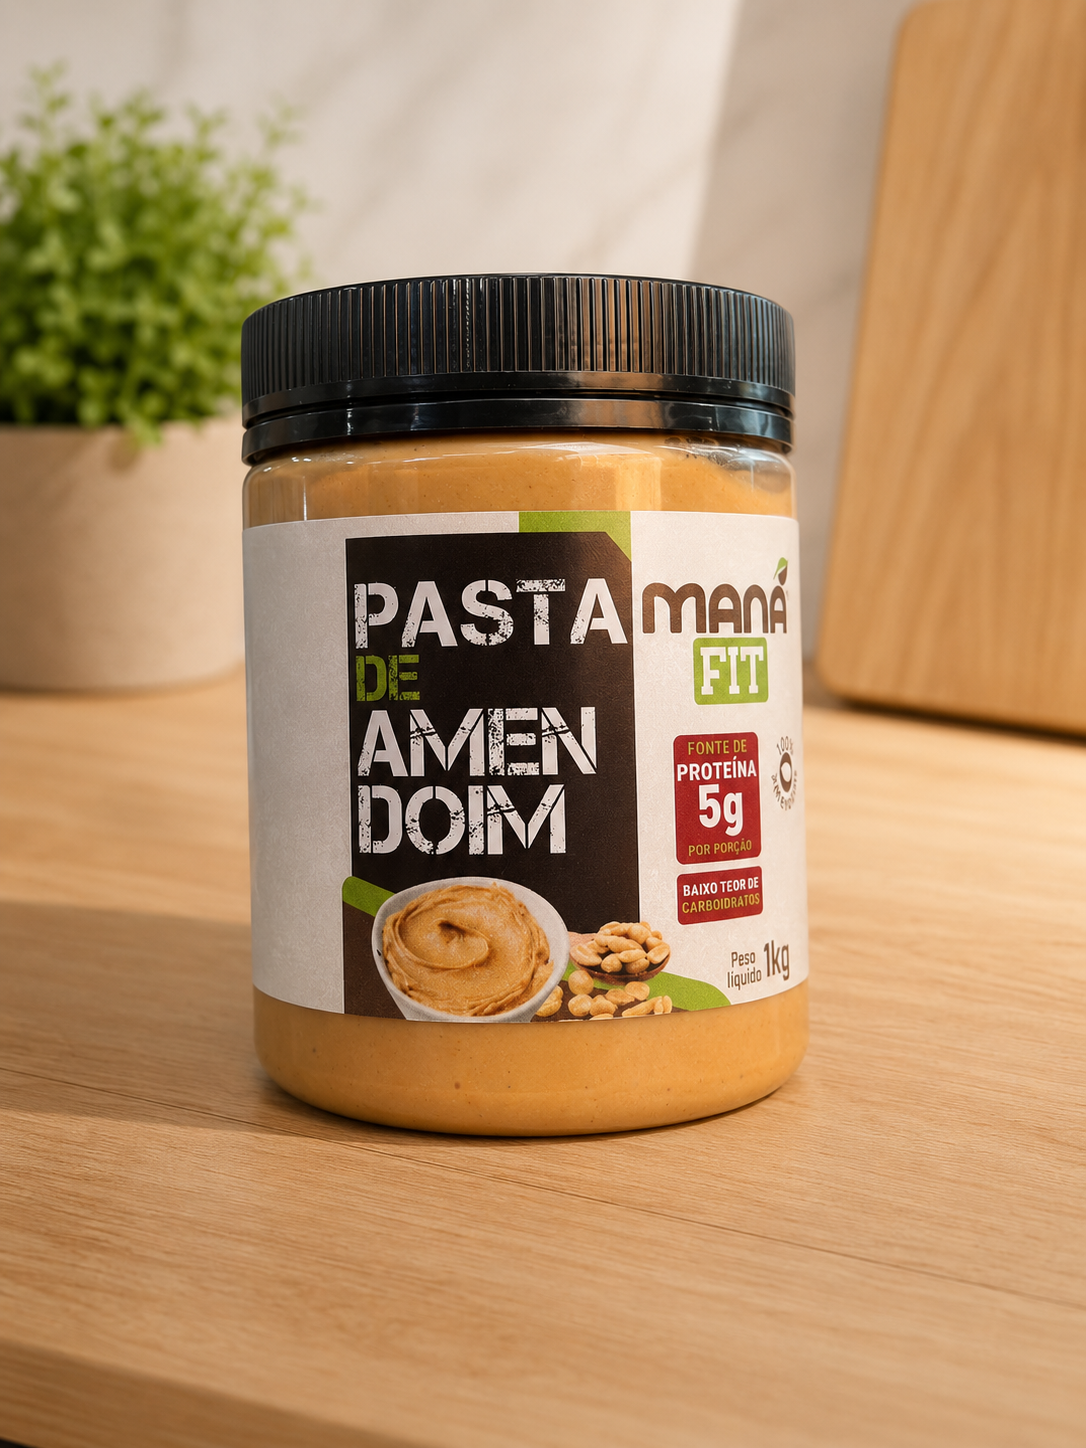
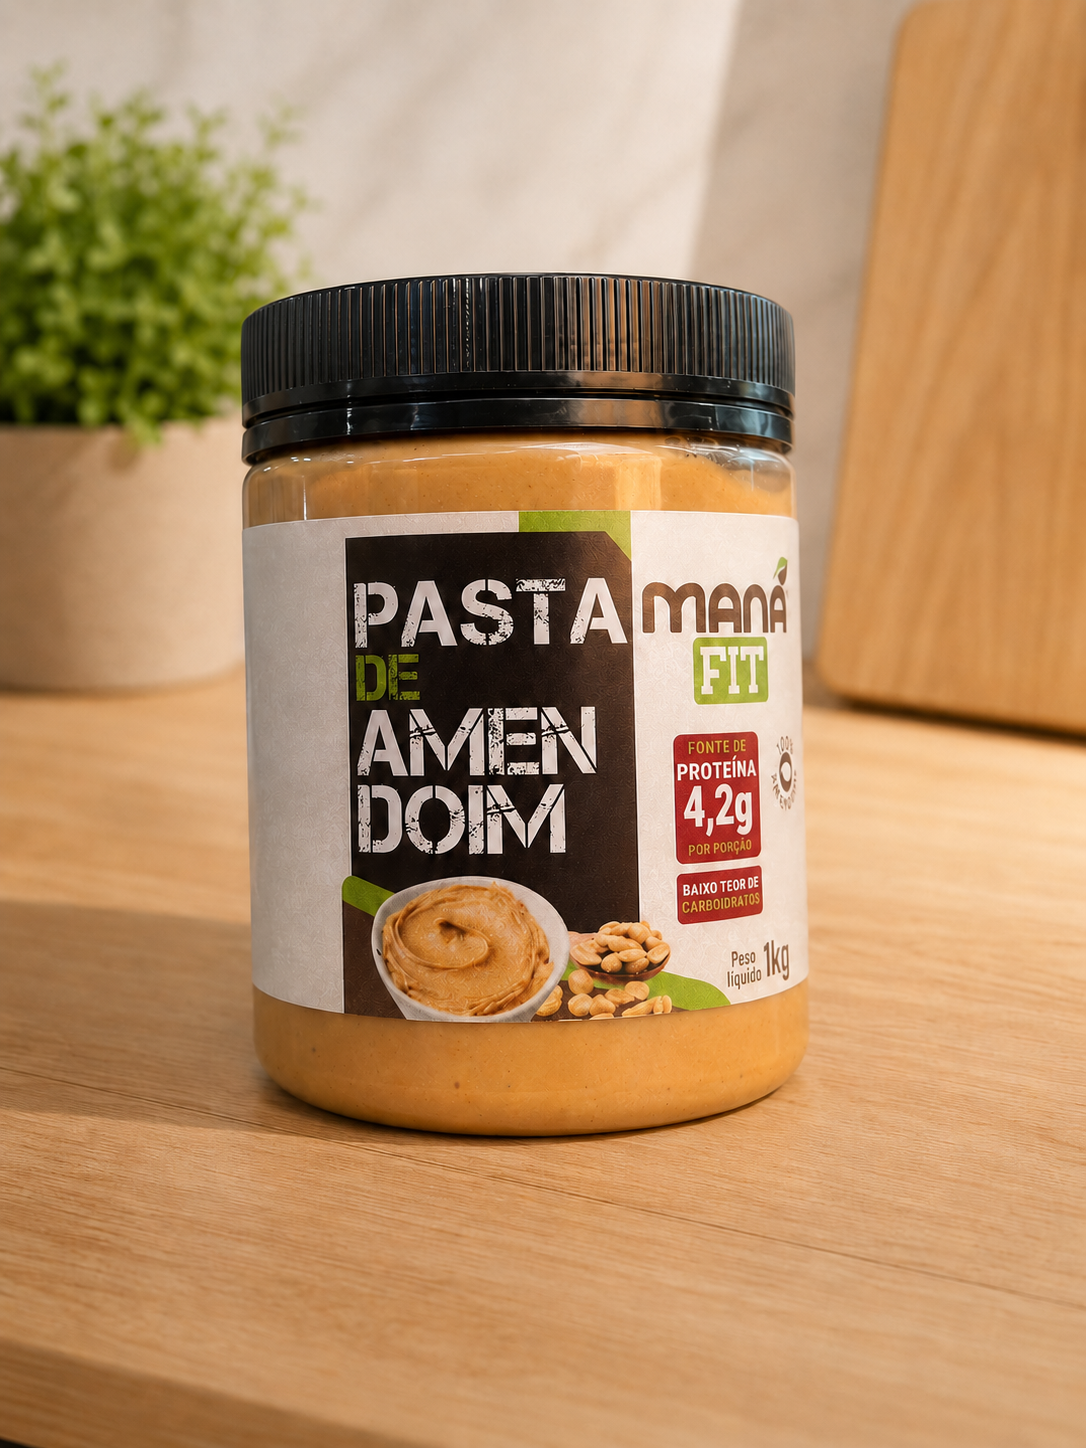
feat: add new image card component

diff --git a/js/script.js b/js/script.js
@@ -318,8 +318,19 @@ const products = [
     category: "linha-fit",
     badge: "fitnes",
     weight: "1kg",
-    price: 15,
+    price: 22.5,
     image: "/assets/img/linhafit/pasta-amendoim.png",
+    description:
+      "Pasta de amendoim cremosa, produzida com amendoins selecionados e sabor marcante.",
+  },
+  {
+    id: 29,
+    name: "Pasta de Amendoim",
+    category: "linha-fit",
+    badge: "fitnes",
+    weight: "500g",
+    price: 15,
+    image: "/assets/img/linhafit/pasta-amendoim500.png",
     description:
       "Pasta de amendoim cremosa, produzida com amendoins selecionados e sabor marcante.",
   },